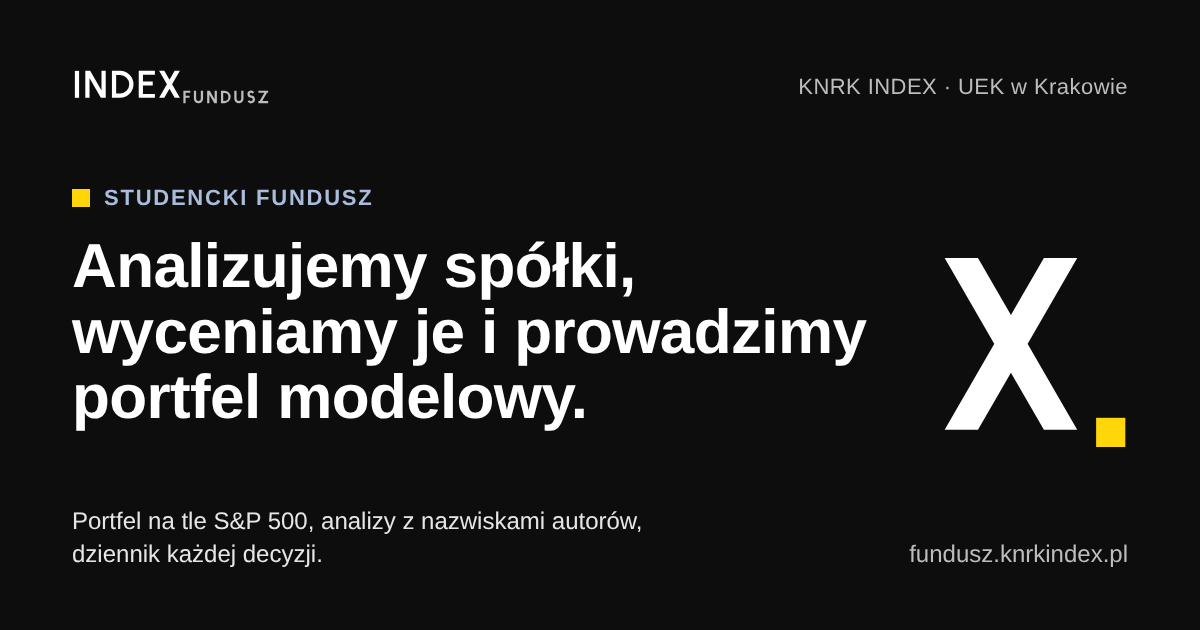
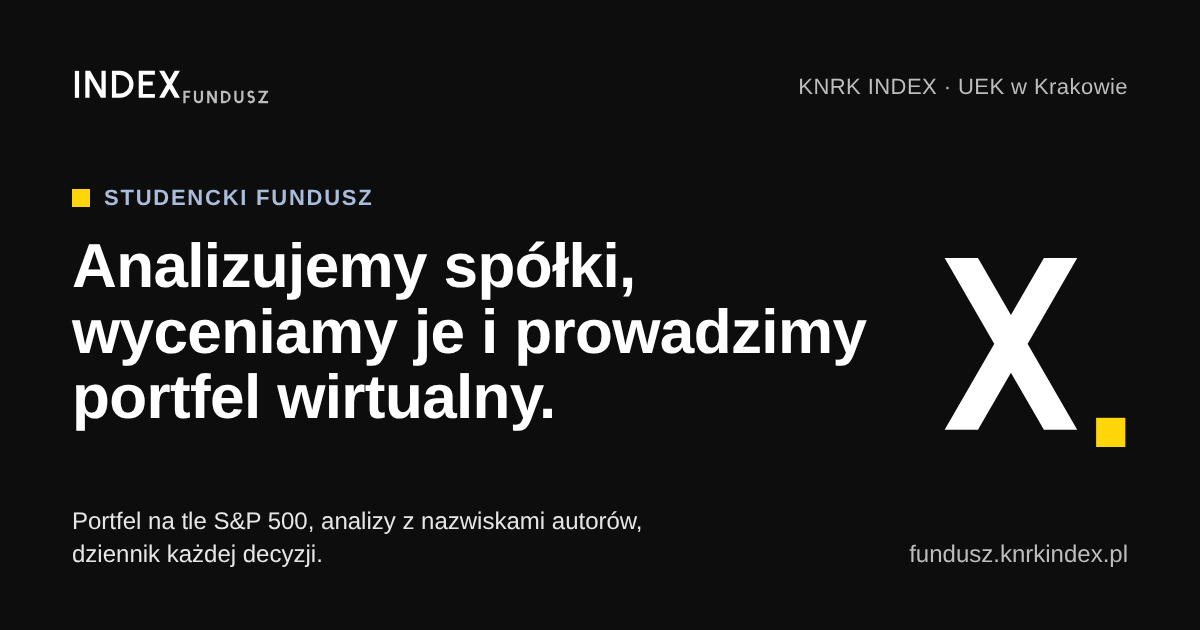
Jedno słowo: portfel wirtualny (obrazek podglądu, analizy, oferta)
Claude-Session: https://claude.ai/code/session_01GJk3onLjiow6J3TLgBbiHk

Changed region(s): [[0.2158, 0.573, 0.4933, 0.6937]]

diff --git a/zrodla/oferta/oferta.html b/zrodla/oferta/oferta.html
@@ -78,7 +78,7 @@ td:first-child { font-weight: 700; width: 46mm; }
 <img class="logo" src="logo_d.svg" alt="Fundusz Index">
 <img class="x" src="x_d.svg" alt="">
 <h1>Współpraca z&nbsp;Funduszem Index</h1>
-<p class="lead">Jesteśmy studentami Uniwersytetu Ekonomicznego w Krakowie. Wyceniamy spółki, prowadzimy portfel modelowy i publikujemy każdą decyzję. Szukamy partnerów, którzy chcą uczyć nas praktyki rynku.</p>
+<p class="lead">Jesteśmy studentami Uniwersytetu Ekonomicznego w Krakowie. Wyceniamy spółki, prowadzimy portfel wirtualny i publikujemy każdą decyzję. Szukamy partnerów, którzy chcą uczyć nas praktyki rynku.</p>
 <div class="facts">
 <div><b>5</b><span>spółek w portfelu, każda z raportem i wyceną DCF</span></div>
 <div><b>26</b><span>członków funduszu, w tym 13 analityków podpisanych pod raportami</span></div>
@@ -93,12 +93,12 @@ td:first-child { font-weight: 700; width: 46mm; }
 <div class="stack g10">
 <div class="stack g4">
 <h2>Kim jesteśmy</h2>
-<p class="lead">Fundusz Index to najstarszy projekt Koła Naukowego Rynku Kapitałowego INDEX na UEK. Jesienią 2026 r. ruszył w nowej formule: z portfelem modelowym, własną stroną i raportami pisanymi według jednego standardu.</p>
+<p class="lead">Fundusz Index to najstarszy projekt Koła Naukowego Rynku Kapitałowego INDEX na UEK. Jesienią 2026 r. ruszył w nowej formule: z portfelem wirtualnym, własną stroną i raportami pisanymi według jednego standardu.</p>
 <p>Pracujemy jak zespół analityczny. Analitycy dzielą się na sektory, budują modele i bronią swoich wycen przed resztą funduszu. Portfel jest wirtualny, ale proces jest prawdziwy: od analizy, przez głosowanie, po publiczny dziennik decyzji. Prowadzi nas Fundacja Index (KRS 0001137760).</p>
 </div>
 
 <div class="stats">
-<div><b>100 000 zł</b><span>umownego kapitału w portfelu modelowym od 25.10.2026</span></div>
+<div><b>100 000 zł</b><span>umownego kapitału w portfelu wirtualnym od 25.10.2026</span></div>
 <div><b>5</b><span>spółek z USA: Alphabet, Chevron, Williams, EMCOR, AMD</span></div>
 <div><b>ok. 24</b><span>strony ma średnio raport: model DCF, mnożniki, ryzyka</span></div>
 <div><b>S&amp;P 500</b><span>w złotych to benchmark, z którym porównujemy wynik</span></div>

diff --git a/analizy/cvx.html b/analizy/cvx.html
@@ -102,7 +102,7 @@
 <dt>Ceny użyte w analizie</dt><dd>Kursy zamknięcia z 16.10.2026</dd>
 <dt>Metody wyceny</dt><dd>DCF, mnożnik P/E i analiza scenariuszowa; założenia opisane w raporcie</dd>
 <dt>Poprzednie analizy spółki</dt><dd>Analiza z okresu przyjęcia spółki do portfela, z [data poprzedniej analizy] (wersja poprzednia, zastąpiona tą analizą)</dd>
-<dt>Portfel modelowy funduszu</dt><dd>Ma akcje spółki (portfel jest wirtualny)</dd>
+<dt>Portfel wirtualny funduszu</dt><dd>Ma akcje spółki</dd>
 <dt>Akcje u autorów</dt><dd>Nie, żaden z autorów nie ma akcji spółki</dd>
 <dt>Inne konflikty interesów</dt><dd>Brak</dd>
 </dl>

diff --git a/analizy/eme.html b/analizy/eme.html
@@ -114,7 +114,7 @@
 <dt>Ceny użyte w analizie</dt><dd>Kursy zamknięcia z 16.10.2026</dd>
 <dt>Metody wyceny</dt><dd>DCF ze scenariuszami i wycena mnożnikowa; założenia opisane w raporcie</dd>
 <dt>Poprzednie analizy spółki</dt><dd>Analiza z okresu przyjęcia spółki do portfela, z [data poprzedniej analizy] (wersja poprzednia, zastąpiona tą analizą)</dd>
-<dt>Portfel modelowy funduszu</dt><dd>Ma akcje spółki (portfel jest wirtualny)</dd>
+<dt>Portfel wirtualny funduszu</dt><dd>Ma akcje spółki</dd>
 <dt>Akcje u autorów</dt><dd>Nie, żaden z autorów nie ma akcji spółki</dd>
 <dt>Inne konflikty interesów</dt><dd>Brak</dd>
 </dl>

diff --git a/analizy/amd.html b/analizy/amd.html
@@ -113,7 +113,7 @@
 <dt>Ceny użyte w analizie</dt><dd>Kursy zamknięcia z 16.10.2026</dd>
 <dt>Metody wyceny</dt><dd>DCF i porównanie mnożników; założenia opisane w raporcie</dd>
 <dt>Poprzednie analizy spółki</dt><dd>Analiza z okresu przyjęcia spółki do portfela, z [data poprzedniej analizy] (wersja poprzednia, zastąpiona tą analizą)</dd>
-<dt>Portfel modelowy funduszu</dt><dd>Ma akcje spółki (portfel jest wirtualny)</dd>
+<dt>Portfel wirtualny funduszu</dt><dd>Ma akcje spółki</dd>
 <dt>Akcje u autorów</dt><dd>Nie, żaden z autorów nie ma akcji spółki</dd>
 <dt>Inne konflikty interesów</dt><dd>Brak</dd>
 </dl>

diff --git a/analizy/googl.html b/analizy/googl.html
@@ -111,7 +111,7 @@
 <dt>Ceny użyte w analizie</dt><dd>Kursy zamknięcia z 16.10.2026</dd>
 <dt>Metody wyceny</dt><dd>DCF i porównanie mnożników; założenia opisane w raporcie</dd>
 <dt>Poprzednie analizy spółki</dt><dd>Analiza z okresu przyjęcia spółki do portfela, z [data poprzedniej analizy] (wersja poprzednia, zastąpiona tą analizą)</dd>
-<dt>Portfel modelowy funduszu</dt><dd>Ma akcje spółki (portfel jest wirtualny)</dd>
+<dt>Portfel wirtualny funduszu</dt><dd>Ma akcje spółki</dd>
 <dt>Akcje u autorów</dt><dd>Nie, żaden z autorów nie ma akcji spółki</dd>
 <dt>Inne konflikty interesów</dt><dd>Brak</dd>
 </dl>

diff --git a/analizy/wmb.html b/analizy/wmb.html
@@ -99,7 +99,7 @@
 <dt>Ceny użyte w analizie</dt><dd>Kursy zamknięcia z 16.10.2026</dd>
 <dt>Metody wyceny</dt><dd>DCF i wycena porównawcza; założenia opisane w analizie</dd>
 <dt>Poprzednie analizy spółki</dt><dd>Analiza z maja 2026 r. (wersja poprzednia, zastąpiona tą analizą)</dd>
-<dt>Portfel modelowy funduszu</dt><dd>Ma akcje Williams Companies (portfel jest wirtualny)</dd>
+<dt>Portfel wirtualny funduszu</dt><dd>Ma akcje Williams Companies</dd>
 <dt>Akcje u autorów</dt><dd>Nie, żaden z autorów nie ma akcji spółki</dd>
 <dt>Inne konflikty interesów</dt><dd>Brak</dd>
 </dl>

diff --git a/zrodla/og/zbuduj.py b/zrodla/og/zbuduj.py
@@ -19,7 +19,7 @@ def obrazki():
     yield "fundusz-index", {
         "gora": "KNRK INDEX · UEK w Krakowie",
         "etykieta": "Studencki fundusz",
-        "tytul": "Analizujemy spółki, wyceniamy je i prowadzimy portfel modelowy.",
+        "tytul": "Analizujemy spółki, wyceniamy je i prowadzimy portfel wirtualny.",
         "dol": "Portfel na tle S&amp;P 500, analizy z nazwiskami autorów,<br>dziennik każdej decyzji.",
     }
     for a in json.loads((REPO / "data" / "analizy.json").read_text(encoding="utf-8")):
